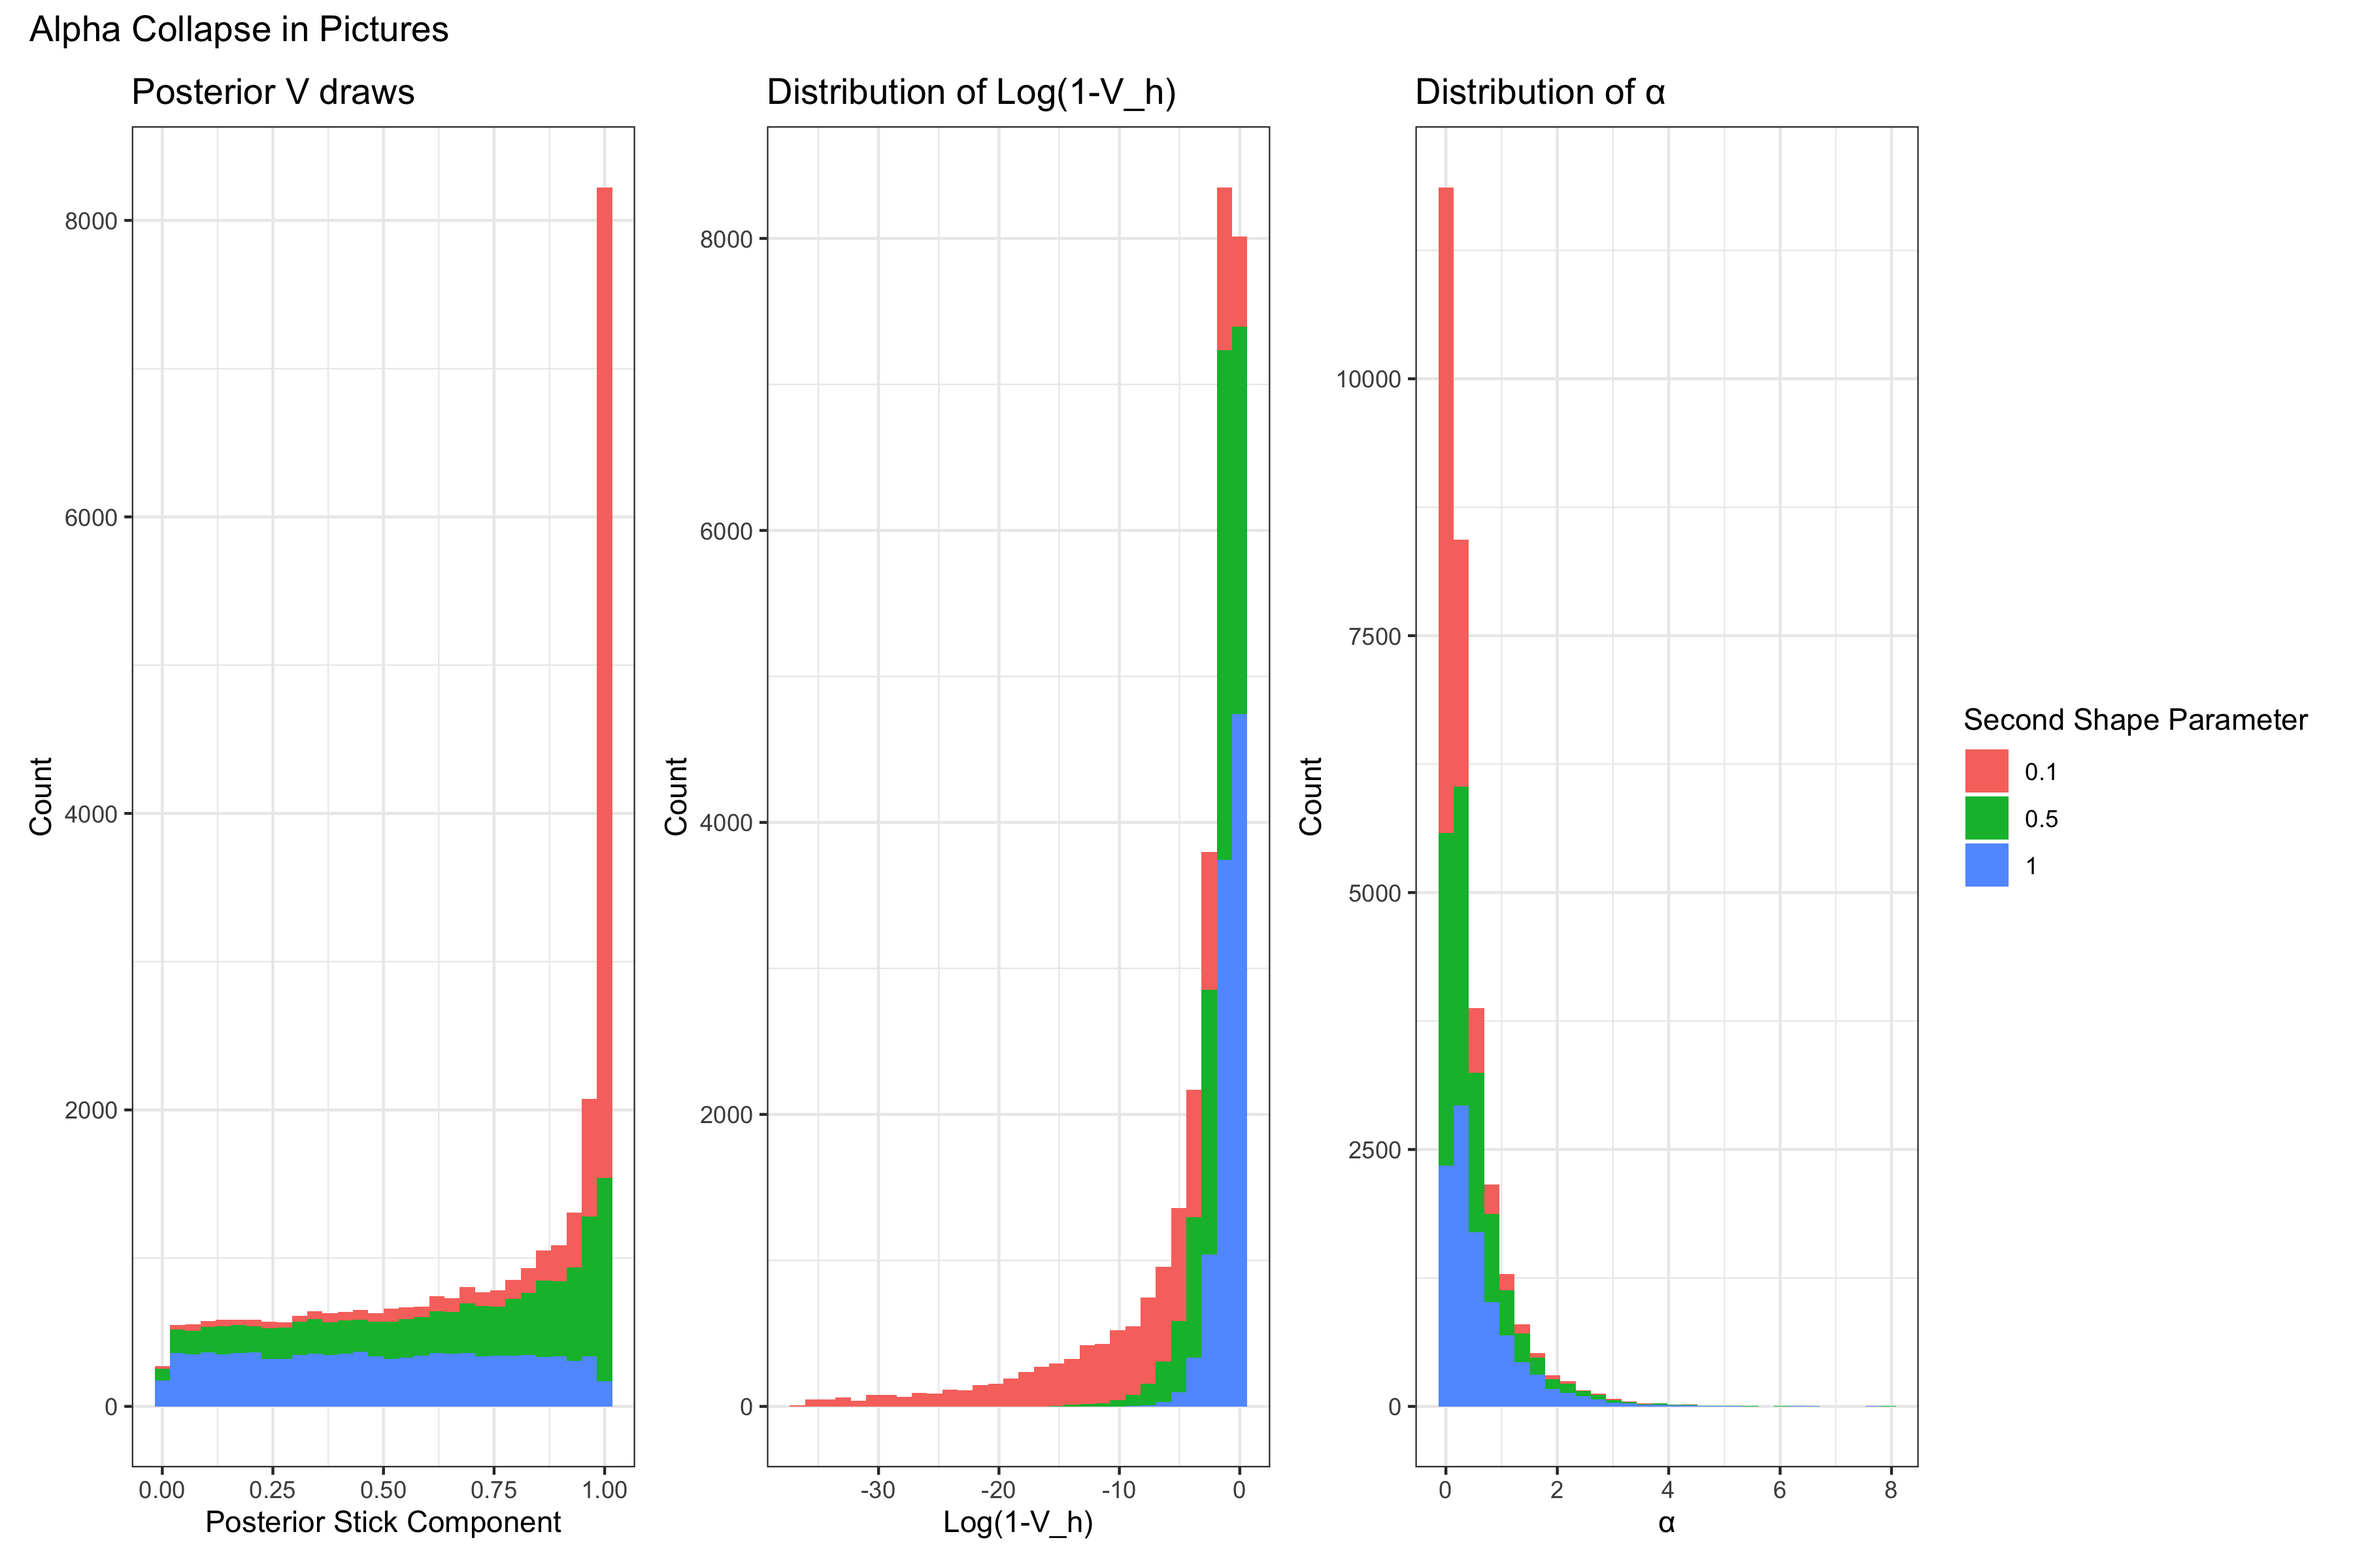
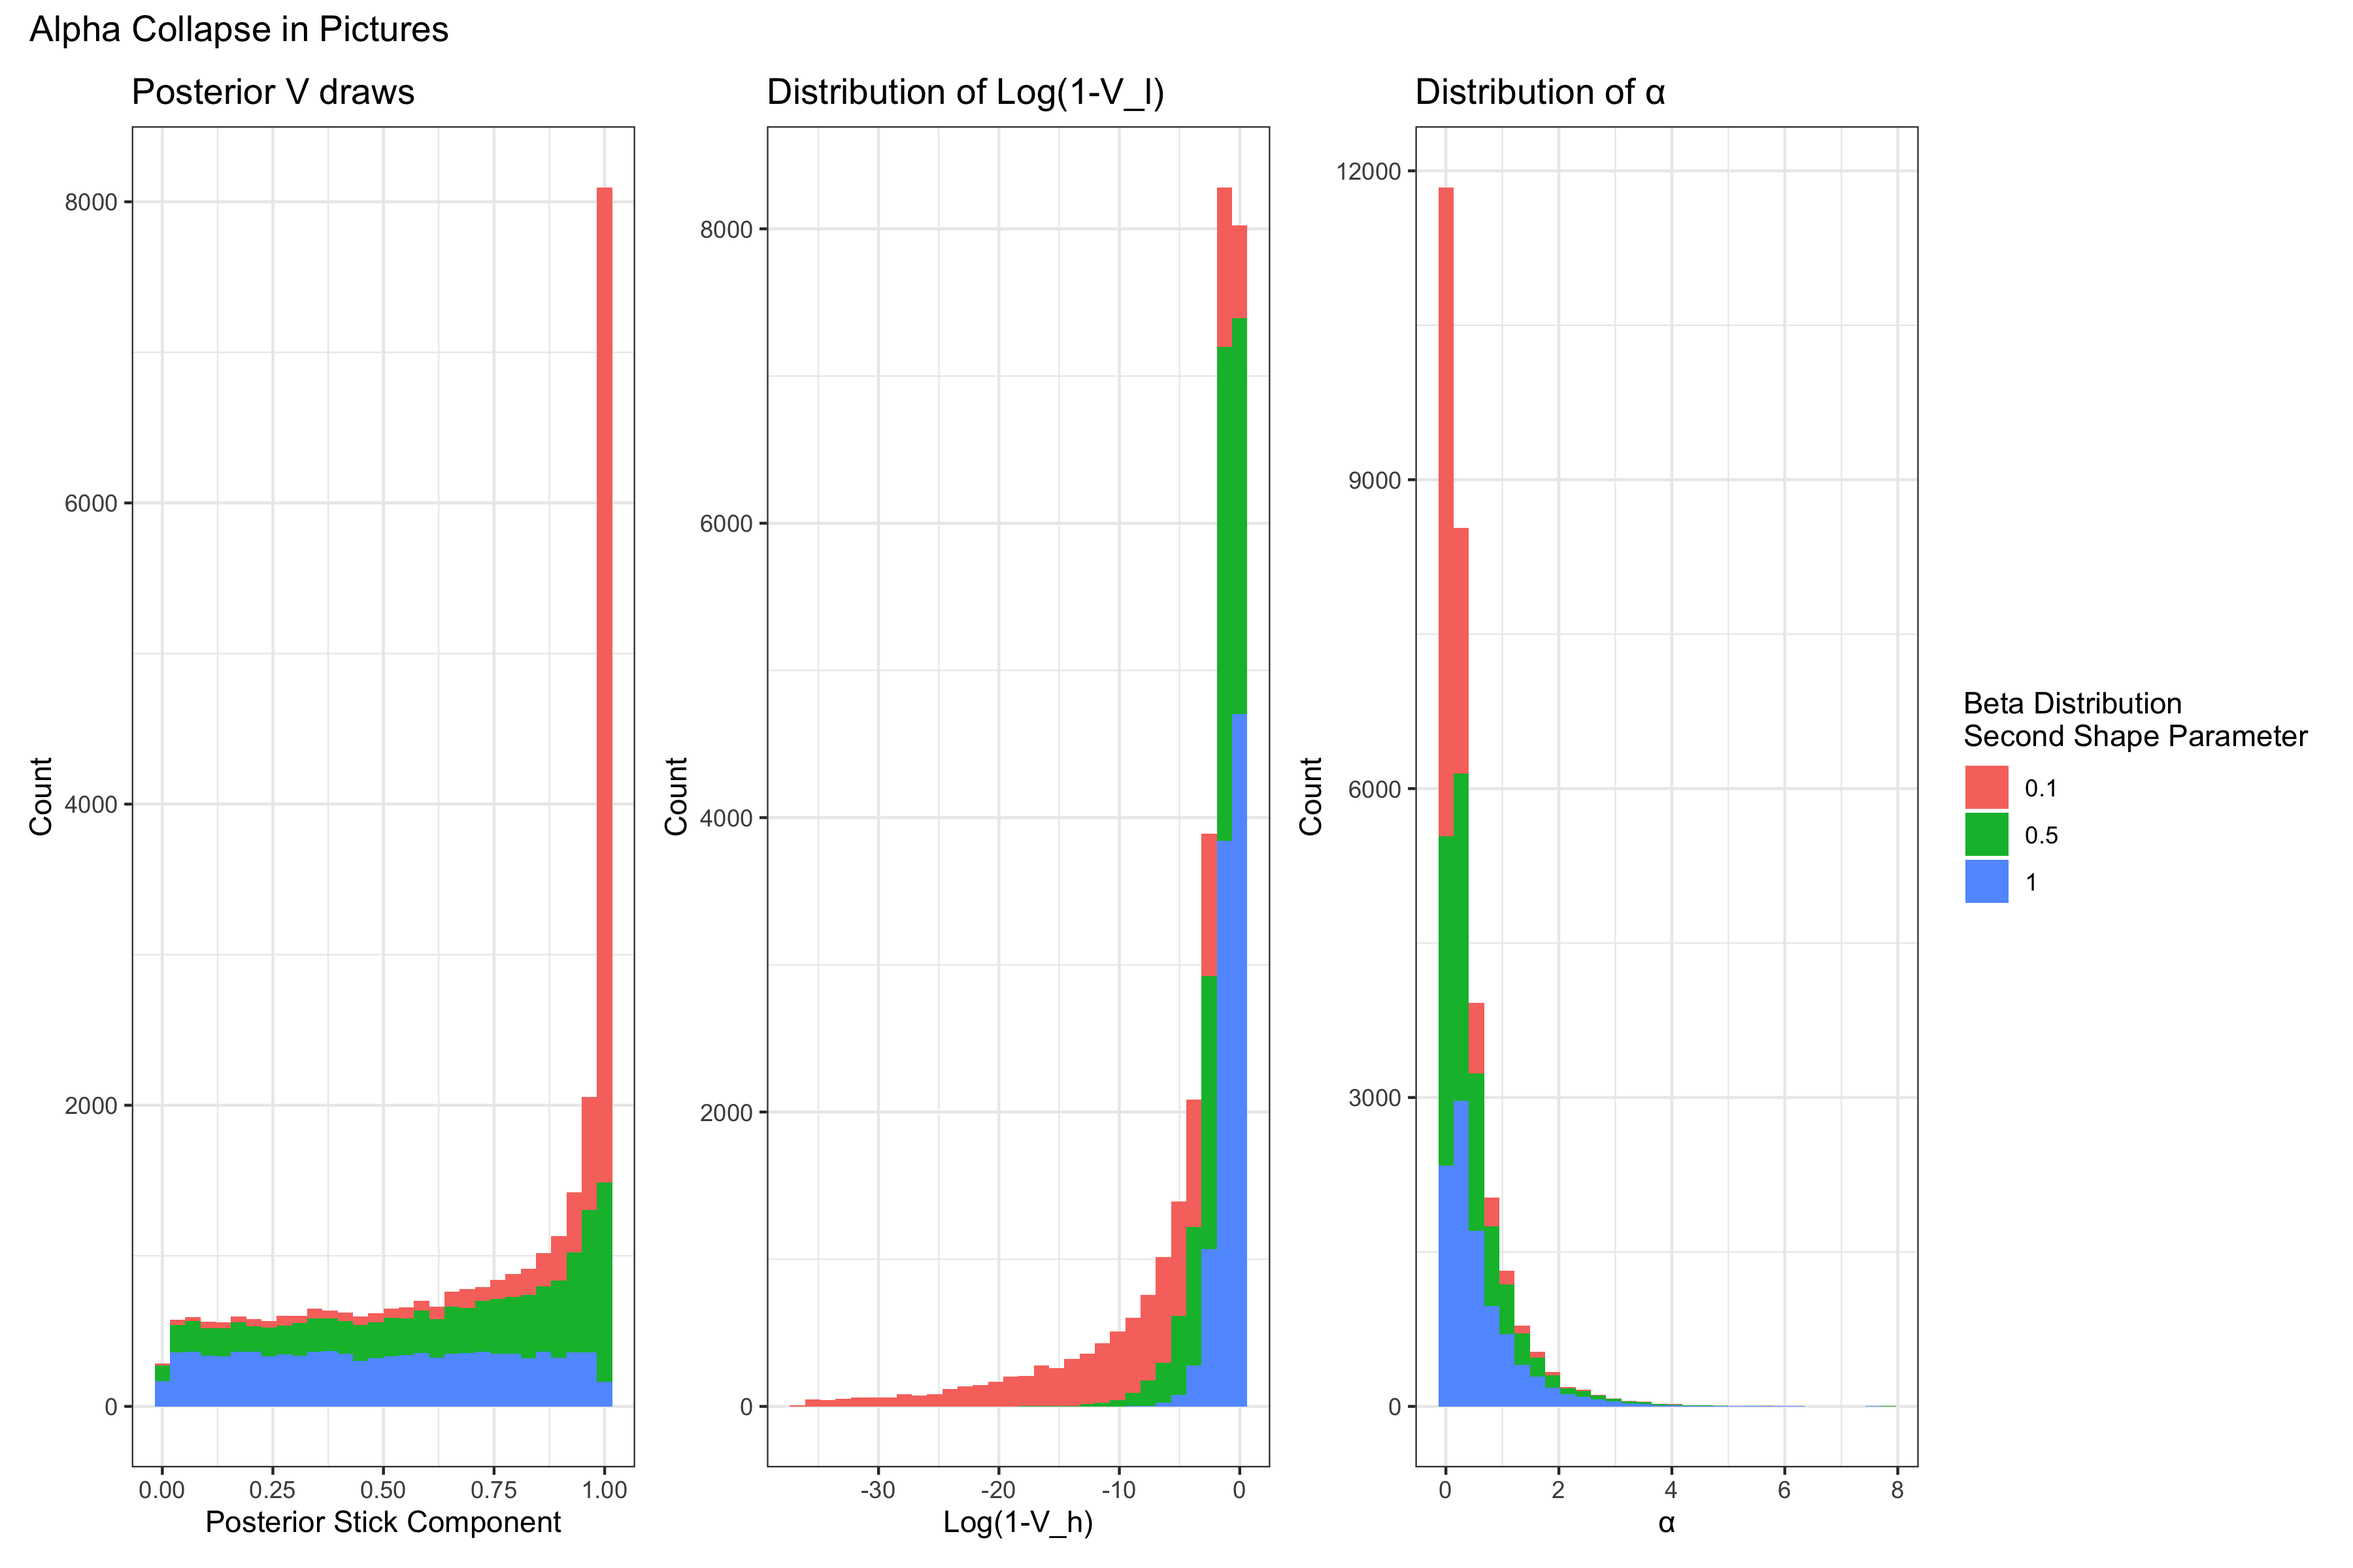
update

diff --git a/content/post/concentration_parameter_two/concentration_parameter_two.md b/content/post/concentration_parameter_two/concentration_parameter_two.md
@@ -15,15 +15,14 @@ image:
 
 In the Curious Case of the Collapsing Concentration Parameter: Part I, I described the Dirichlet Process (DP), some brief historical
 papers involved with its development, how it is most commonly used, and one specific peculiarity surrounding the
-concentration parameter's behavior that arose in a simple simulation. In part II I'm going to unpack more of the mystery behind why this collapse occurs, computationally and set the stage
+concentration parameter's behavior that arose in a simple simulation. In part II I'm going to unpack more of the mystery behind why this collapse occurs computationally and set the stage
 for our foray into the literature to discover who else has written on this subject. There's a bit more math in this post, so buckle up.
 
 ## Computation 
 
 If you recall, we had a very simple simulation, in which we wanted to see if our DP model could recover the simulated mixture components. However, in the course of examining our models' results
-we found that $\alpha$ the DP's concentration parameter had collapsed at zero. 
-Why did the infamous concentration parameter,$\alpha$, collapse? Well a simple look into the blocked [gibbs sampler](https://en.wikipedia.org/wiki/Gibbs_sampling)
-algorithm used to estimate $\alpha$ is a good place to start.
+we found that $\alpha$, the DP's concentration parameter, had collapsed at zero. 
+Why did it collapse? Well a simple look into the blocked [gibbs sampler](https://en.wikipedia.org/wiki/Gibbs_sampling) algorithm used to estimate $\alpha$ is a good place to start.
 
 While I would encourage a full derivation of the posterior with an arbitrary prior if you're interested, we can use the case 
 in which a [conjugate](https://en.wikipedia.org/wiki/Conjugate_prior) gamma prior is used (with shape and rate parameters) as shown in [Bayesian Data Analysis](http://www.stat.columbia.edu/~gelman/book/).
@@ -32,30 +31,30 @@ Since we're using a conjugate prior, the posterior is also a gamma distribution 
 
 
 $$
-\alpha|- \sim \text{Gamma}(a_{\alpha} + N - 1, b_{\alpha} - \sum_{l=1}^{N-1} \log(1 - V_l))
+\alpha|- \sim \text{Gamma}(a_{\alpha} + L - 1, b_{\alpha} - \sum_{l=1}^{L-1} \log(1 - V_l))
 $$
 
 
 There is a lot to unpack in the above, so let's get started. To begin with, $a_{\alpha}$ and $b_{\alpha}$ are the hyperparameters of the prior distribution of $\alpha$.
-So to be complete, we would write $\alpha \sim \text{Gamma}(a_{\alpha},b_{\alpha})$[^1]. $N$ is the sample size, and $V_l \in (0,1)$ are the parameter atom weight components[^2] from the 
+So to be complete, we would write $\alpha \sim \text{Gamma}(a_{\alpha},b_{\alpha})$[^1]. $L$ is the total number of sticks and $V_l \in (0,1)$ are the parameter atom weight components[^2] from the 
 DP's [stick breaking process](https://en.wikipedia.org/wiki/Dirichlet_process#The_stick-breaking_process), alluded to in Part I. The atom weight components become the weights
 through the following expression $\pi_l = V_l \prod^{h < l} (1-V_h)$.
 
 To show what that stick breaking process looks like in the posterior, I'll next write down the posterior distribution of the $V_l$:
 
 $$
-V_l| .. \sim Beta(1 + n_l, \alpha + \sum_{l'=l+1}^{N} n_{l'} )
+V_l| .. \sim Beta(1 + n_l, \alpha + \sum_{l'=l+1}^{L} n_{l'} )
 $$
 
 In the above, $n_l$ is the number of observations assigned to the  $h$th DP component and with that definition, we should now have enough to piece together a bit of what must be happening here.
 
 Let's suppose our model is doing a really good job. It's found the parameters, $\theta$ (e.g. the mean parameter of a Poisson mixture component) that best describe the data.
 In that case, we'll end up seeing more and more observations assigned to only those components neccessary to estimate the density[^3]. That means a few $n_l$ will be high, but the rest will be very low.
-In fact, if more of the $n_l$ go to zero, then we'll have $\sum_{l'=l+1}^{N} n_{l'} \to 0$.  If $\alpha \approx 0$ at this point then  $V_h$ is very likely to be $\approx 1$ from
+In fact, if more of the $n_l$ go to zero, then we'll have $\sum_{l'=l+1}^{L} n_{l'} \to 0$.  If $\alpha \approx 0$ at this point then  $V_l$ is very likely to be $\approx 1$ from
 the lopsided Beta distribution.
 
-Continuing on in our algorithm to the draw of $\alpha$ from the posterior, we can now see how $\alpha$ collapses. If $V_h \approx 1$ then that means 
-$1 - V_h \approx 0 \rightarrow \log(1-V_h) \approx \infty$. When this parameter becomes infinity, the gamma distribution becomes degenerate at 0. Since our model is doing "well",
+Continuing on in our algorithm to the draw of $\alpha$ from the posterior, we can now see how $\alpha$ collapses. If $V_l \approx 1$ then that means 
+$1 - V_l \approx 0 \rightarrow \log(1-V_l) \approx \infty$. When this parameter becomes infinity, the gamma distribution becomes degenerate at 0. Since our model is doing "well",
 in that it is assigning observations with the highest probability to their appropriate components, this behavior doesn't change, and we see $\alpha = 0 $ for the entirety of the MCMC chain.
 
 
@@ -93,7 +92,7 @@ Let's look at that original definition of the Dirichlet Process from Part I.
 
 Clearly here, if the parameter $\alpha=0$ then we have a problem, since the Dirichlet Distribution will have all 0's for its parameters. However, when we look at the posterior distribution...
 
-> The posterior distribution of a DP conditional on y is another DP with parameter $\alpha G_0 + \sum_{l=1}^L \pi_l \delta_{\theta_l}(\cdot)$
+> The posterior distribution of a DP conditional on y is another DP with parameter $\alpha G_0$ $+ \sum_{l=1}^L \pi_l \delta_{\theta_l} (\cdot)$
 
 The above means that now a finite realization of the DP in the posterior has a Dirichlet Distribution with parameters $\alpha G_0 + \sum^L \pi_l \delta_{\theta_l} (\cdot)$ .  
 This means that if $\alpha=0$ the rest of the distribution is still well defined *provided that* at least some of the $\pi_l \neq 0$[^4].
